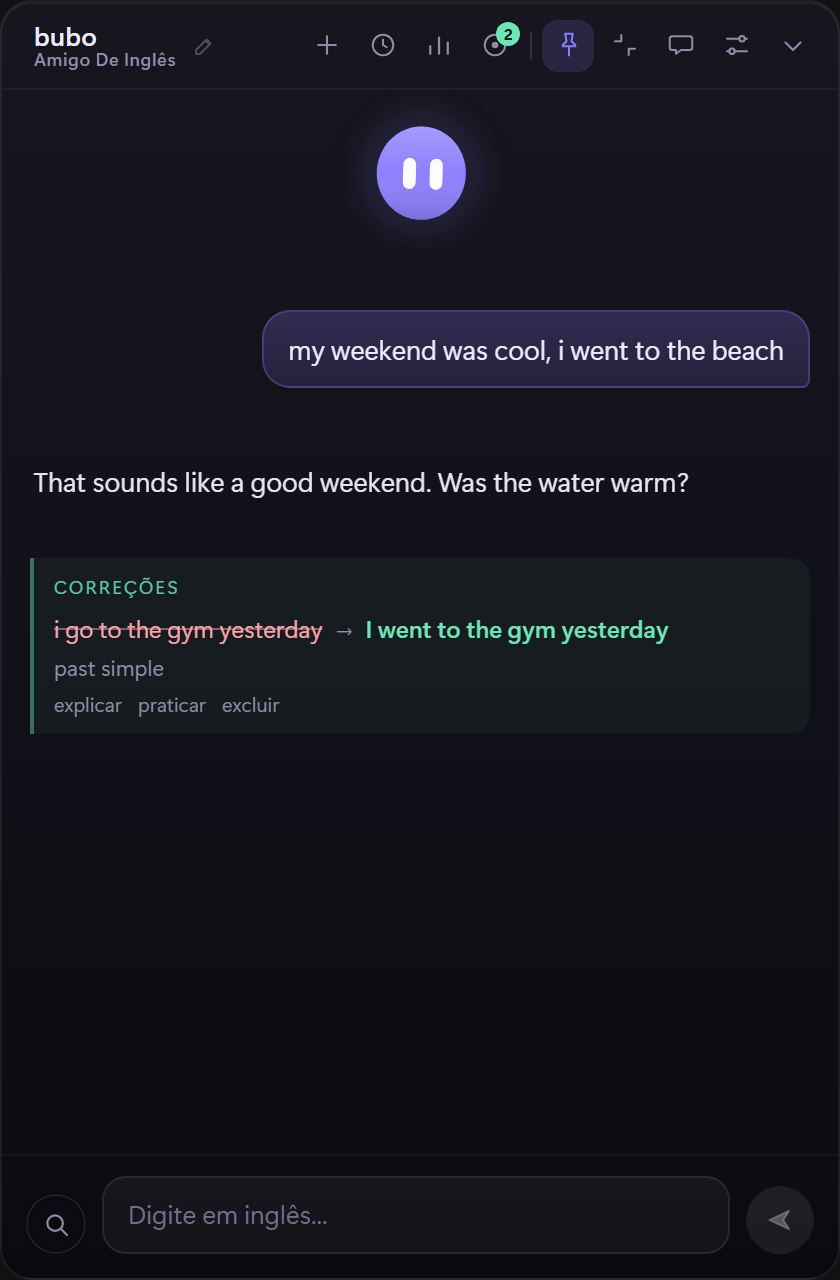
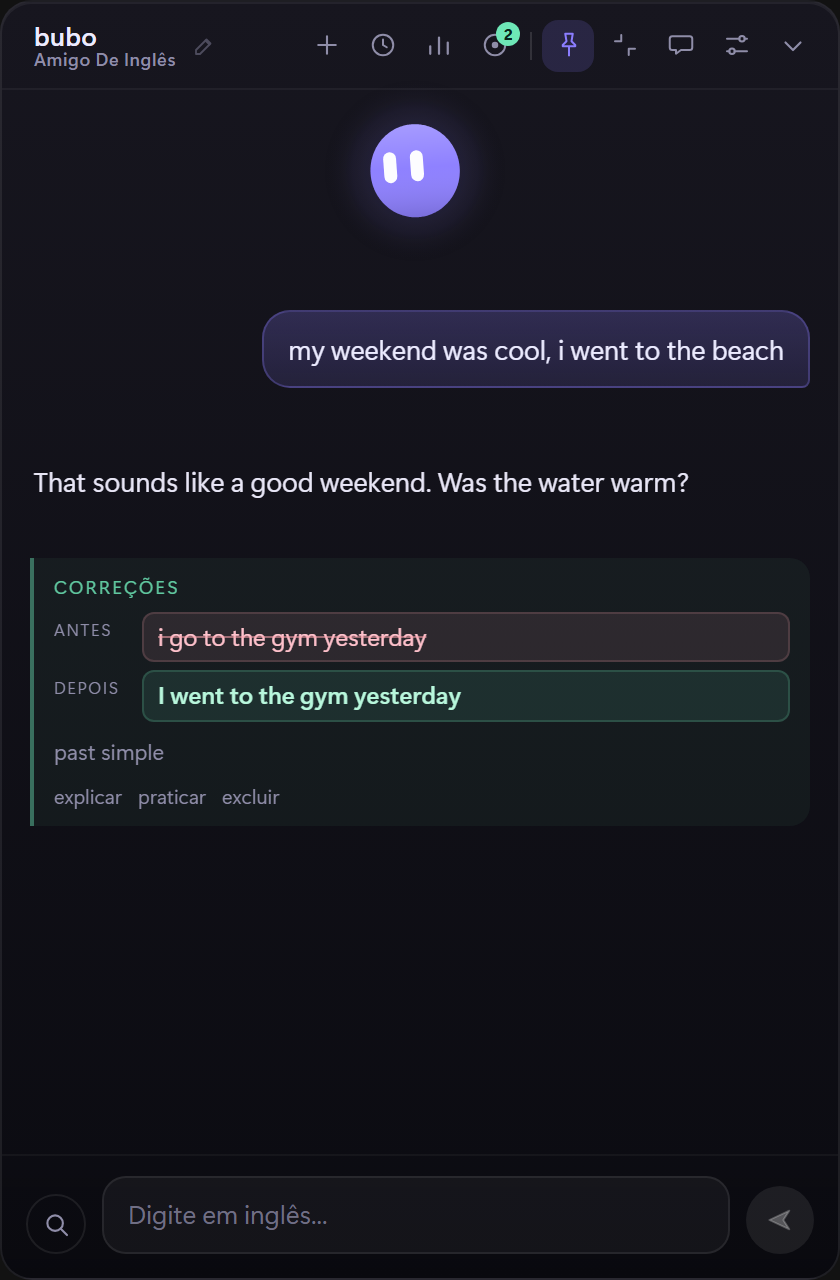
fix: clarify the before and after highlights
Show corrections as labelled before/after blocks in the chat, the practice
result and the progress list. The drill now shows the learner's attempt next to
the correction instead of only the right sentence.

Bump the display label to build 2 and refresh the screenshots that show the
correction cards.

diff --git a/src/styles.css b/src/styles.css
@@ -555,29 +555,50 @@ button {
   font-size: 12px;
   line-height: 1.4;
   user-select: text;
+  display: flex;
+  flex-direction: column;
+  gap: 4px;
 }
 
 .fix-row {
-  display: flex;
-  align-items: baseline;
+  display: grid;
+  grid-template-columns: 38px minmax(0, 1fr);
   gap: 6px;
-  flex-wrap: wrap;
+  align-items: start;
+}
+
+.fix-label {
+  padding-top: 3px;
+  color: var(--muted);
+  font-size: 8.5px;
+  letter-spacing: 0.8px;
+  text-transform: uppercase;
+}
+
+.fix-wrong,
+.fix-right {
+  display: block;
+  padding: 3px 7px;
+  border: 1px solid transparent;
+  border-radius: 6px;
+  font-size: 12px;
+  line-height: 1.45;
+  overflow-wrap: anywhere;
 }
 
 .fix-wrong {
-  color: var(--bad);
+  color: #ffc2cc;
   text-decoration: line-through;
-  text-decoration-color: rgba(253, 164, 175, 0.5);
-}
-
-.fix-arrow {
-  color: var(--muted);
-  font-size: 11px;
+  text-decoration-color: rgba(253, 164, 175, 0.55);
+  background: rgba(253, 164, 175, 0.1);
+  border-color: rgba(253, 164, 175, 0.16);
 }
 
 .fix-right {
-  color: var(--good);
+  color: #b8f7dc;
   font-weight: 500;
+  background: rgba(110, 231, 183, 0.1);
+  border-color: rgba(110, 231, 183, 0.18);
 }
 
 .fix-note {
@@ -751,9 +772,15 @@ button {
 }
 
 .drill-wrong {
+  padding: 4px 8px;
+  border: 1px solid rgba(253, 164, 175, 0.16);
+  border-radius: 6px;
+  background: rgba(253, 164, 175, 0.1);
+  color: #ffc2cc;
   font-size: 14px;
   line-height: 1.5;
-  color: #f3e6ea;
+  text-decoration: line-through;
+  text-decoration-color: rgba(253, 164, 175, 0.55);
   overflow-wrap: anywhere;
 }
 
@@ -822,9 +849,39 @@ button {
 }
 
 .drill-right {
+  padding: 4px 8px;
+  border: 1px solid rgba(110, 231, 183, 0.18);
+  border-radius: 6px;
+  background: rgba(110, 231, 183, 0.1);
+  color: #b8f7dc;
   font-size: 14px;
-  color: var(--good);
   line-height: 1.5;
+  overflow-wrap: anywhere;
+}
+
+.drill-answer-block {
+  display: flex;
+  flex-direction: column;
+  gap: 3px;
+}
+
+.drill-answer-label {
+  color: var(--muted);
+  font-size: 8.5px;
+  letter-spacing: 0.8px;
+  text-transform: uppercase;
+}
+
+.drill-answer-wrong {
+  padding: 4px 8px;
+  border: 1px solid rgba(253, 164, 175, 0.16);
+  border-radius: 6px;
+  background: rgba(253, 164, 175, 0.1);
+  color: #ffc2cc;
+  font-size: 13px;
+  line-height: 1.45;
+  text-decoration: line-through;
+  text-decoration-color: rgba(253, 164, 175, 0.55);
   overflow-wrap: anywhere;
 }
 
@@ -2195,14 +2252,6 @@ button {
   background: rgba(255, 255, 255, 0.03);
 }
 
-.progress-mistake-row {
-  display: flex;
-  align-items: center;
-  gap: 6px;
-  flex-wrap: wrap;
-  font-size: 12px;
-}
-
 .progress-note {
   font-size: 10px;
   color: var(--muted);
@@ -2960,6 +3009,22 @@ button {
 [data-theme="light"] .fixes {
   border-left-color: rgba(4, 120, 87, 0.45);
   background: rgba(4, 120, 87, 0.06);
+}
+
+[data-theme="light"] .fix-wrong,
+[data-theme="light"] .drill-wrong,
+[data-theme="light"] .drill-answer-wrong {
+  color: #9f1239;
+  background: rgba(190, 18, 60, 0.07);
+  border-color: rgba(190, 18, 60, 0.15);
+  text-decoration-color: rgba(190, 18, 60, 0.4);
+}
+
+[data-theme="light"] .fix-right,
+[data-theme="light"] .drill-right {
+  color: #047857;
+  background: rgba(4, 120, 87, 0.07);
+  border-color: rgba(4, 120, 87, 0.15);
 }
 
 [data-theme="light"] .fixes-title {

diff --git a/src/components/Drill.tsx b/src/components/Drill.tsx
@@ -24,7 +24,11 @@ export function Drill({ onClose, focus, settings = DEFAULT_SETTINGS }: DrillProp
   const [item, setItem] = useState<DrillItem | null>(null);
   const [phase, setPhase] = useState<Phase>("loading");
   const [answer, setAnswer] = useState("");
-  const [result, setResult] = useState<{ correct: boolean; item: DrillItem } | null>(null);
+  const [result, setResult] = useState<{
+    correct: boolean;
+    item: DrillItem;
+    attempt: string;
+  } | null>(null);
   const [ahead, setAhead] = useState(false);
   const inputRef = useRef<HTMLInputElement>(null);
   const dialogRef = useRef<HTMLDivElement>(null);
@@ -121,7 +125,7 @@ export function Drill({ onClose, focus, settings = DEFAULT_SETTINGS }: DrillProp
       const correct = !reveal && isCorrectAnswer(text, item.right);
       const updated = await ipc.drillReview(item.id, correct);
       lastAnswered.current = item.id;
-      setResult({ correct, item: updated ?? item });
+      setResult({ correct, item: updated ?? item, attempt: text });
       setPhase("answered");
       void ipc
         .drillStats()
@@ -140,7 +144,7 @@ export function Drill({ onClose, focus, settings = DEFAULT_SETTINGS }: DrillProp
     busy.current = true;
     try {
       const updated = await ipc.drillOverride(item.id);
-      setResult({ correct: true, item: updated ?? item });
+      setResult({ correct: true, item: updated ?? item, attempt: result?.attempt ?? "" });
       void ipc
         .drillStats()
         .then(setStats)
@@ -277,7 +281,18 @@ export function Drill({ onClose, focus, settings = DEFAULT_SETTINGS }: DrillProp
                       <span className="drill-verdict">
                         {result.correct ? "exatamente certo" : "quase"}
                       </span>
-                      <span className="drill-right">{result.item.right}</span>
+                      {!result.correct && result.attempt.trim() && (
+                        <div className="drill-answer-block">
+                          <span className="drill-answer-label">você escreveu</span>
+                          <span className="drill-answer-wrong">{result.attempt}</span>
+                        </div>
+                      )}
+                      <div className="drill-answer-block">
+                        <span className="drill-answer-label">
+                          {result.correct ? "correto" : "correção"}
+                        </span>
+                        <span className="drill-right">{result.item.right}</span>
+                      </div>
                     </div>
                   </div>
                   {result.item.note && <span className="drill-note">{result.item.note}</span>}

diff --git a/e2e/cards.spec.ts b/e2e/cards.spec.ts
@@ -31,6 +31,25 @@ test("practice starts from a correction card", async ({ page }) => {
   await expect(dialog).toHaveCount(0);
 });
 
+test("corrections and drills label the before and after", async ({ page }) => {
+  await page.goto("/e2e/harness.html?case=app");
+
+  const fixes = page.locator(".fixes");
+  await expect(fixes.locator(".fix-label").first()).toHaveText("antes");
+  await expect(fixes.locator(".fix-label").nth(1)).toHaveText("depois");
+
+  await page.getByRole("button", { name: "Praticar esta correção" }).click();
+  const dialog = page.getByRole("dialog", { name: "Prática" });
+  await dialog.getByPlaceholder("digite a frase corrigida").fill("i go to the gym yesterday");
+  await dialog.getByRole("button", { name: "Conferir" }).click();
+
+  const result = dialog.locator(".drill-result");
+  await expect(result.locator(".drill-answer-label").first()).toHaveText("você escreveu");
+  await expect(result.locator(".drill-answer-label").nth(1)).toHaveText("correção");
+  await expect(result.locator(".drill-answer-wrong")).toHaveText("i go to the gym yesterday");
+  await expect(result.locator(".drill-right")).toHaveText("I went to the gym yesterday");
+});
+
 test("deletes a correction from the card", async ({ page }) => {
   await page.goto("/e2e/harness.html?case=app");
   await expect(page.locator(".fixes")).toBeVisible();

diff --git a/src/components/ProgressPanel.tsx b/src/components/ProgressPanel.tsx
@@ -173,9 +173,12 @@ export function ProgressPanel({ onClose, onPractice, goal, onLessons }: Progress
                 <div className="progress-mistakes">
                   {stats.top.map((mistake) => (
                     <div className="progress-mistake" key={`${mistake.wrong}-${mistake.right}`}>
-                      <div className="progress-mistake-row">
+                      <div className="fix-row">
+                        <span className="fix-label">antes</span>
                         <span className="fix-wrong">{mistake.wrong}</span>
-                        <span className="fix-arrow">→</span>
+                      </div>
+                      <div className="fix-row">
+                        <span className="fix-label">depois</span>
                         <span className="fix-right">{mistake.right}</span>
                       </div>
                       {mistake.note && <span className="progress-note">{mistake.note}</span>}

diff --git a/src/components/Message.tsx b/src/components/Message.tsx
@@ -186,8 +186,11 @@ export const Message = memo(function Message({
             return (
               <div className="fix" key={`${fix.wrong}-${index}`}>
                 <div className="fix-row">
+                  <span className="fix-label">antes</span>
                   <span className="fix-wrong">{fix.wrong}</span>
-                  <span className="fix-arrow">→</span>
+                </div>
+                <div className="fix-row">
+                  <span className="fix-label">depois</span>
                   <span className="fix-right">{fix.right}</span>
                 </div>
                 {fix.note && <div className="fix-note">{fix.note}</div>}

diff --git a/src/lib/build.ts b/src/lib/build.ts
@@ -1,2 +1,2 @@
 /** Display-only build label. Reset to build 1 on a new version; increment for fix builds. */
-export const BUILD_LABEL = "build 1";
+export const BUILD_LABEL = "build 2";

diff --git a/release-notes/0.8.1.md b/release-notes/0.8.1.md
@@ -23,4 +23,10 @@ Existing settings and history are migrated automatically. If the old `%APPDATA%\
 
 ## Verification
 
-- 65 Vitest tests, 78 Rust tests, 33 Playwright tests, clippy, fmt, and build clean.
+- 65 Vitest tests, 78 Rust tests, 34 Playwright tests, clippy, fmt, and build clean.
+
+## Fix build (build 2)
+
+The stable `bubo-setup.exe` was rebuilt with clearer before/after highlights in
+the correction cards, the practice result and the progress list. The version
+remains 0.8.1, and existing installations are not auto-updated to this build.
